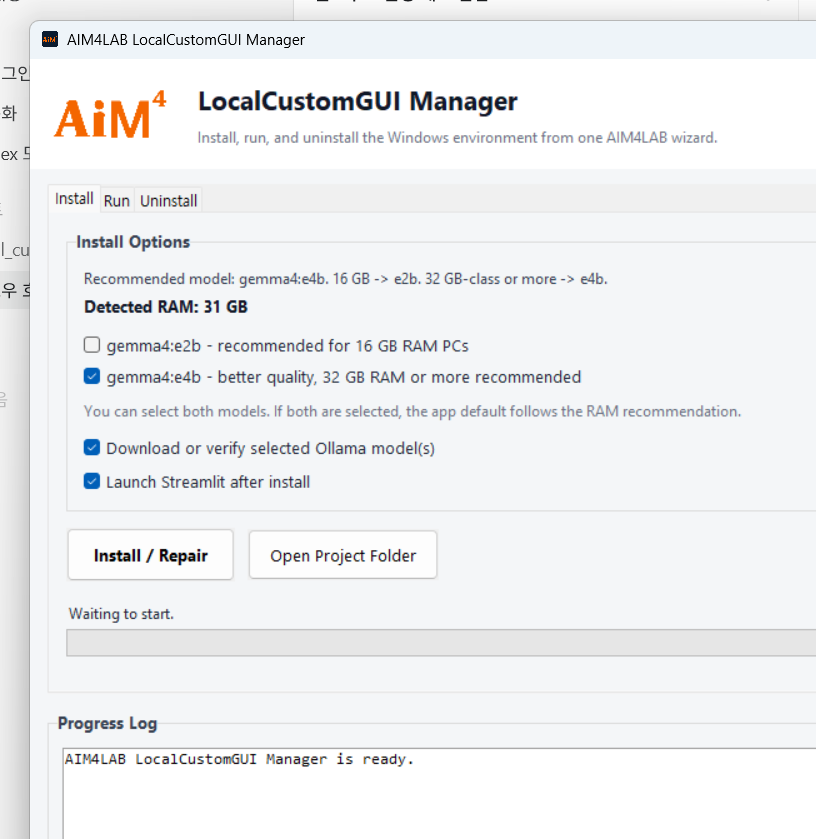
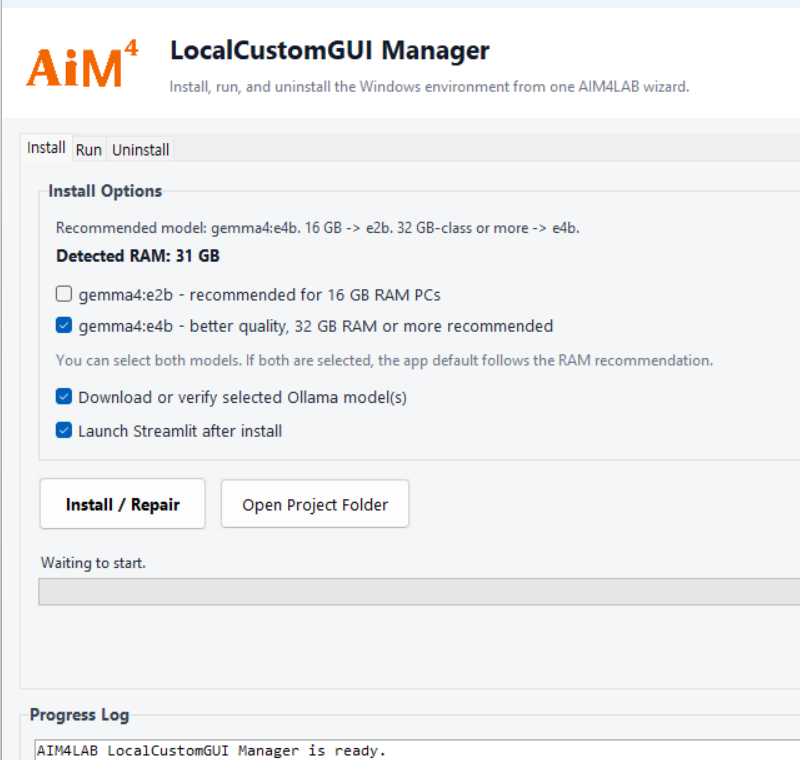
Tighten manager log layout

Changed region(s): [[0.0, 0.0, 0.9062, 1.0], [0.9688, 0.0, 1.0, 0.0303]]

diff --git a/packaging/windows/windows_manager_launcher.py b/packaging/windows/windows_manager_launcher.py
@@ -834,7 +834,7 @@ class ManagerApp:
         body = ttk.Frame(self.root, padding=(14, 12))
         body.pack(fill="both", expand=True)
         self.notebook = ttk.Notebook(body)
-        self.notebook.configure(height=382)
+        self.notebook.configure(height=420)
         self.notebook.pack(fill="x", expand=False)
 
         self.install_tab = ttk.Frame(self.notebook, padding=14)
@@ -849,9 +849,9 @@ class ManagerApp:
         self._build_uninstall_tab()
 
         log_frame = ttk.LabelFrame(body, text="Progress Log", padding=10)
-        log_frame.pack(fill="both", expand=True, pady=(14, 0))
-        self.log_text = scrolled_text_class(log_frame, height=7, wrap="word", font=("Consolas", 9))
-        self.log_text.pack(fill="both", expand=True)
+        log_frame.pack(fill="x", expand=False, pady=(10, 0))
+        self.log_text = scrolled_text_class(log_frame, height=4, wrap="word", font=("Consolas", 9))
+        self.log_text.pack(fill="x", expand=False)
         self.log_text.configure(state="disabled")
         self.log("AIM4LAB LocalCustomGUI Manager is ready.")
 
@@ -936,7 +936,7 @@ class ManagerApp:
             "streamlit_config": tk.BooleanVar(value=False),
         }
         self.delete_text_vars: dict[str, object] = {}
-        box = ttk.LabelFrame(self.uninstall_tab, text="Uninstall Items", padding=14)
+        box = ttk.LabelFrame(self.uninstall_tab, text="Uninstall Items", padding=10)
         box.pack(fill="x")
         for key, label in (
             ("conda_env", f"Conda env: {ENV_NAME}"),
@@ -949,29 +949,26 @@ class ManagerApp:
         ):
             text_var = tk.StringVar(value=label)
             self.delete_text_vars[key] = text_var
-            ttk.Checkbutton(box, textvariable=text_var, variable=self.delete_vars[key]).pack(anchor="w", pady=2)
+            ttk.Checkbutton(box, textvariable=text_var, variable=self.delete_vars[key]).pack(anchor="w", pady=1)
         controls = ttk.Frame(self.uninstall_tab)
-        controls.pack(fill="x", pady=(14, 8))
+        controls.pack(fill="x", pady=(10, 6))
         ttk.Button(controls, text="Recommended", command=self.select_recommended_delete).pack(side="left")
         ttk.Button(controls, text="Select All", command=self.select_all_delete).pack(side="left", padx=(8, 0))
         ttk.Button(controls, text="Clear", command=self.clear_delete_selection).pack(side="left", padx=(8, 0))
         ttk.Button(controls, text="Refresh", command=self.refresh_delete_options).pack(side="left", padx=(8, 0))
-        ttk.Label(self.uninstall_tab, text="Type DELETE to enable uninstall").pack(anchor="w", pady=(16, 4))
+        confirm_row = ttk.Frame(self.uninstall_tab)
+        confirm_row.pack(fill="x", pady=(10, 0))
+        ttk.Label(confirm_row, text="Type DELETE").pack(side="left")
         self.delete_confirm_var = tk.StringVar()
-        self.delete_entry = ttk.Entry(self.uninstall_tab, textvariable=self.delete_confirm_var, width=22)
-        self.delete_entry.pack(anchor="w")
+        self.delete_entry = ttk.Entry(confirm_row, textvariable=self.delete_confirm_var, width=18)
+        self.delete_entry.pack(side="left", padx=(8, 12))
         self.uninstall_button = ttk.Button(
-            self.uninstall_tab,
+            confirm_row,
             text="Uninstall Selected",
             style="Accent.TButton",
             command=self.start_uninstall,
         )
-        self.uninstall_button.pack(anchor="w", pady=(16, 0))
-        note = (
-            "Recommended cleanup removes the conda env, Ollama model, runtime state/log/cache, .env, and Windows Apps entry. "
-            "The project folder itself is never deleted automatically."
-        )
-        ttk.Label(self.uninstall_tab, text=note, wraplength=780, foreground="#6b7280").pack(anchor="w", pady=(18, 0))
+        self.uninstall_button.pack(side="left")
 
     def log(self, message: str = "") -> None:
         self.queue.put(("log", message))